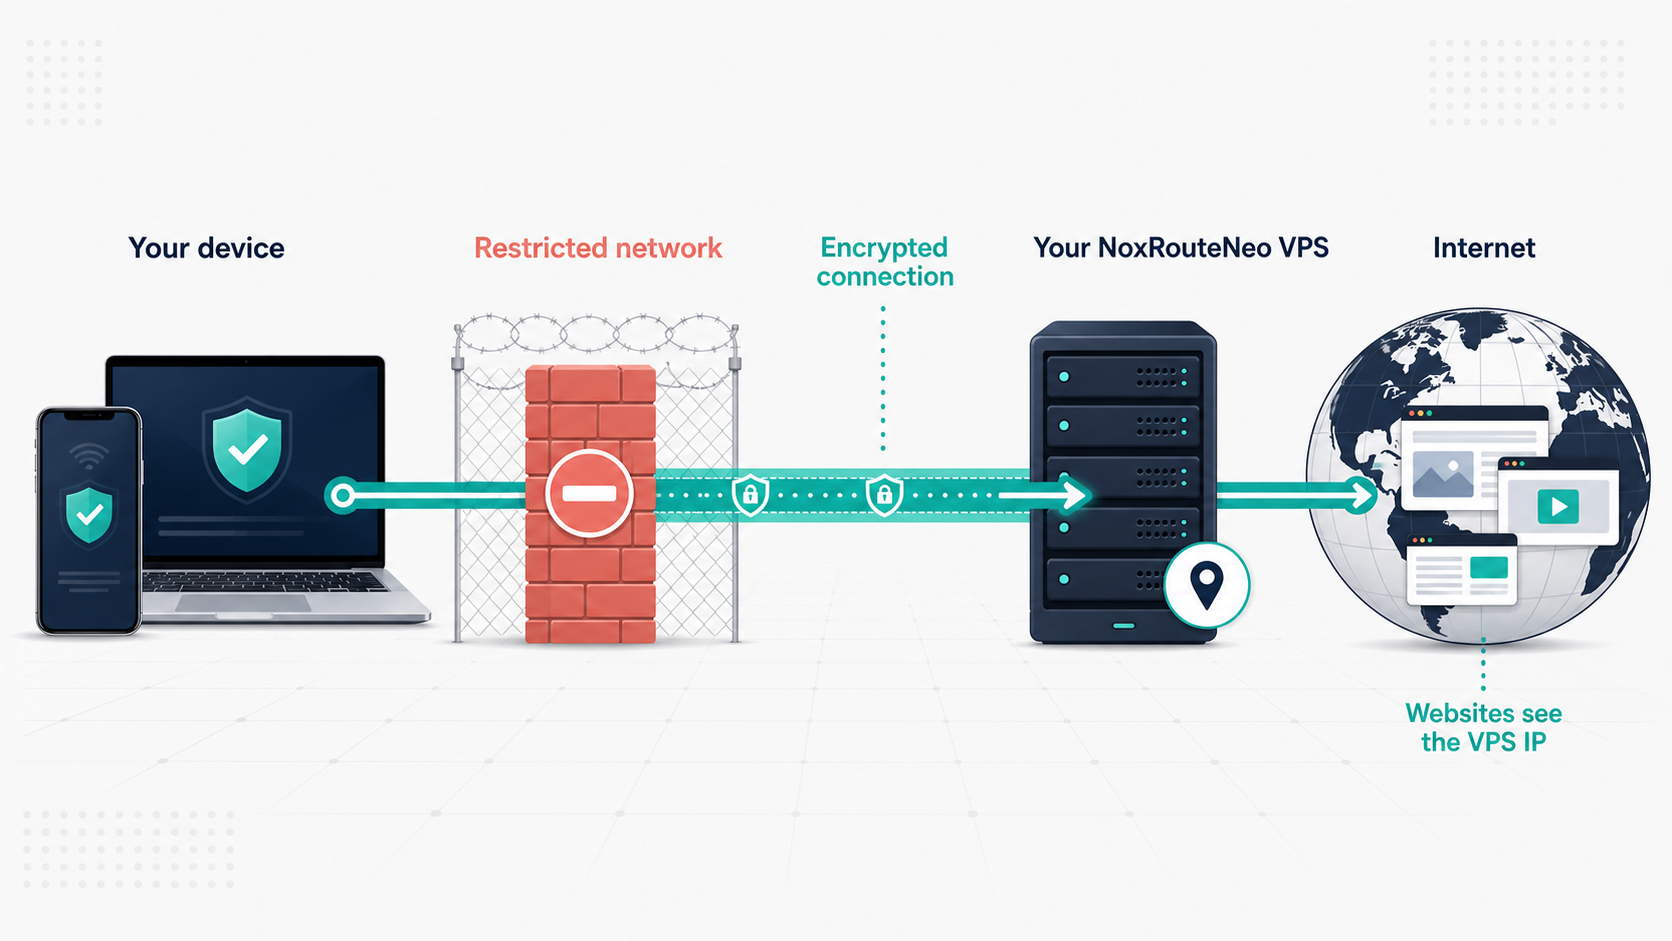
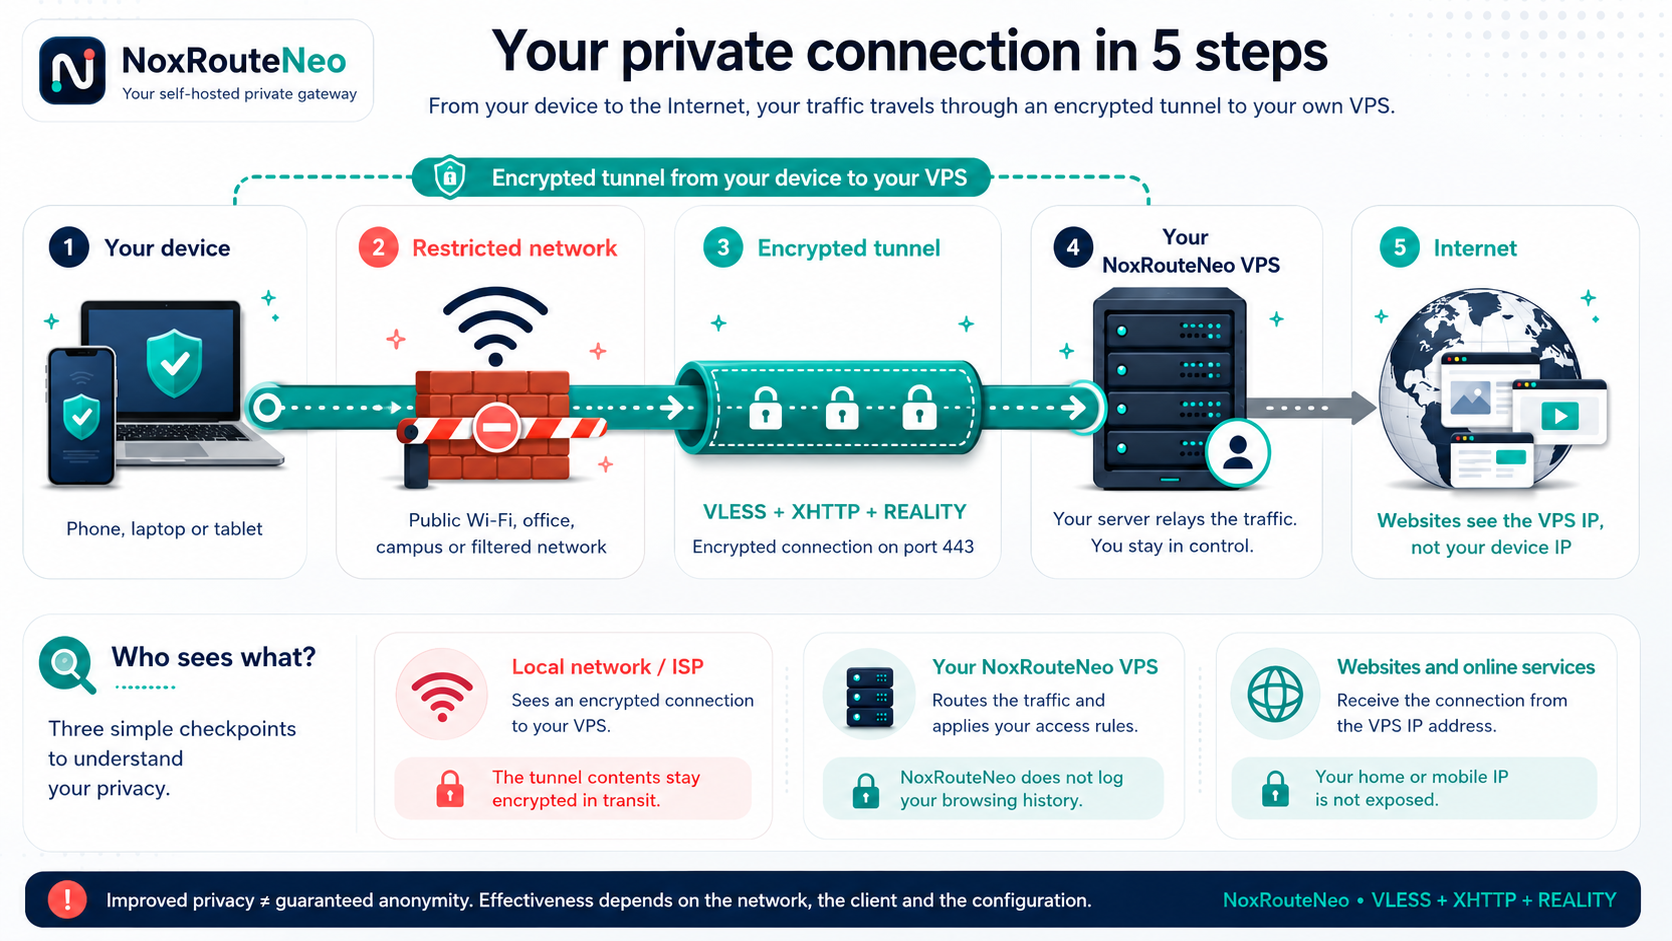
docs: replace connection overview illustration

diff --git a/README.md b/README.md
@@ -53,7 +53,7 @@ NoxRouteNeo is a Docker-based, self-hosted VPN management platform for a single 
 It is designed for people who want a small personal VPN server without operating a multi-node control plane. The VPS hosts the web portal, API, database, certificates, traffic gateway and VPN runtime.
 
 <p align="center">
-  <img src="docs/assets/protected-route.png" alt="A phone and laptop create an encrypted connection through a restricted network to the user's NoxRouteNeo VPS, then reach the Internet using the VPS IP" width="1200">
+  <img src="docs/assets/protected-route.png" alt="Five-step NoxRouteNeo connection: a device crosses a restricted network through an encrypted VLESS, XHTTP and REALITY tunnel to a private VPS before reaching the Internet with the VPS IP" width="1200">
 </p>
 
 <p align="center"><sub>Your device creates an encrypted connection to your own VPS. Websites see the VPS IP; XHTTP + REALITY is designed to resemble common HTTPS patterns. This improves privacy and censorship resistance but does not guarantee anonymity or access on every network.</sub></p>